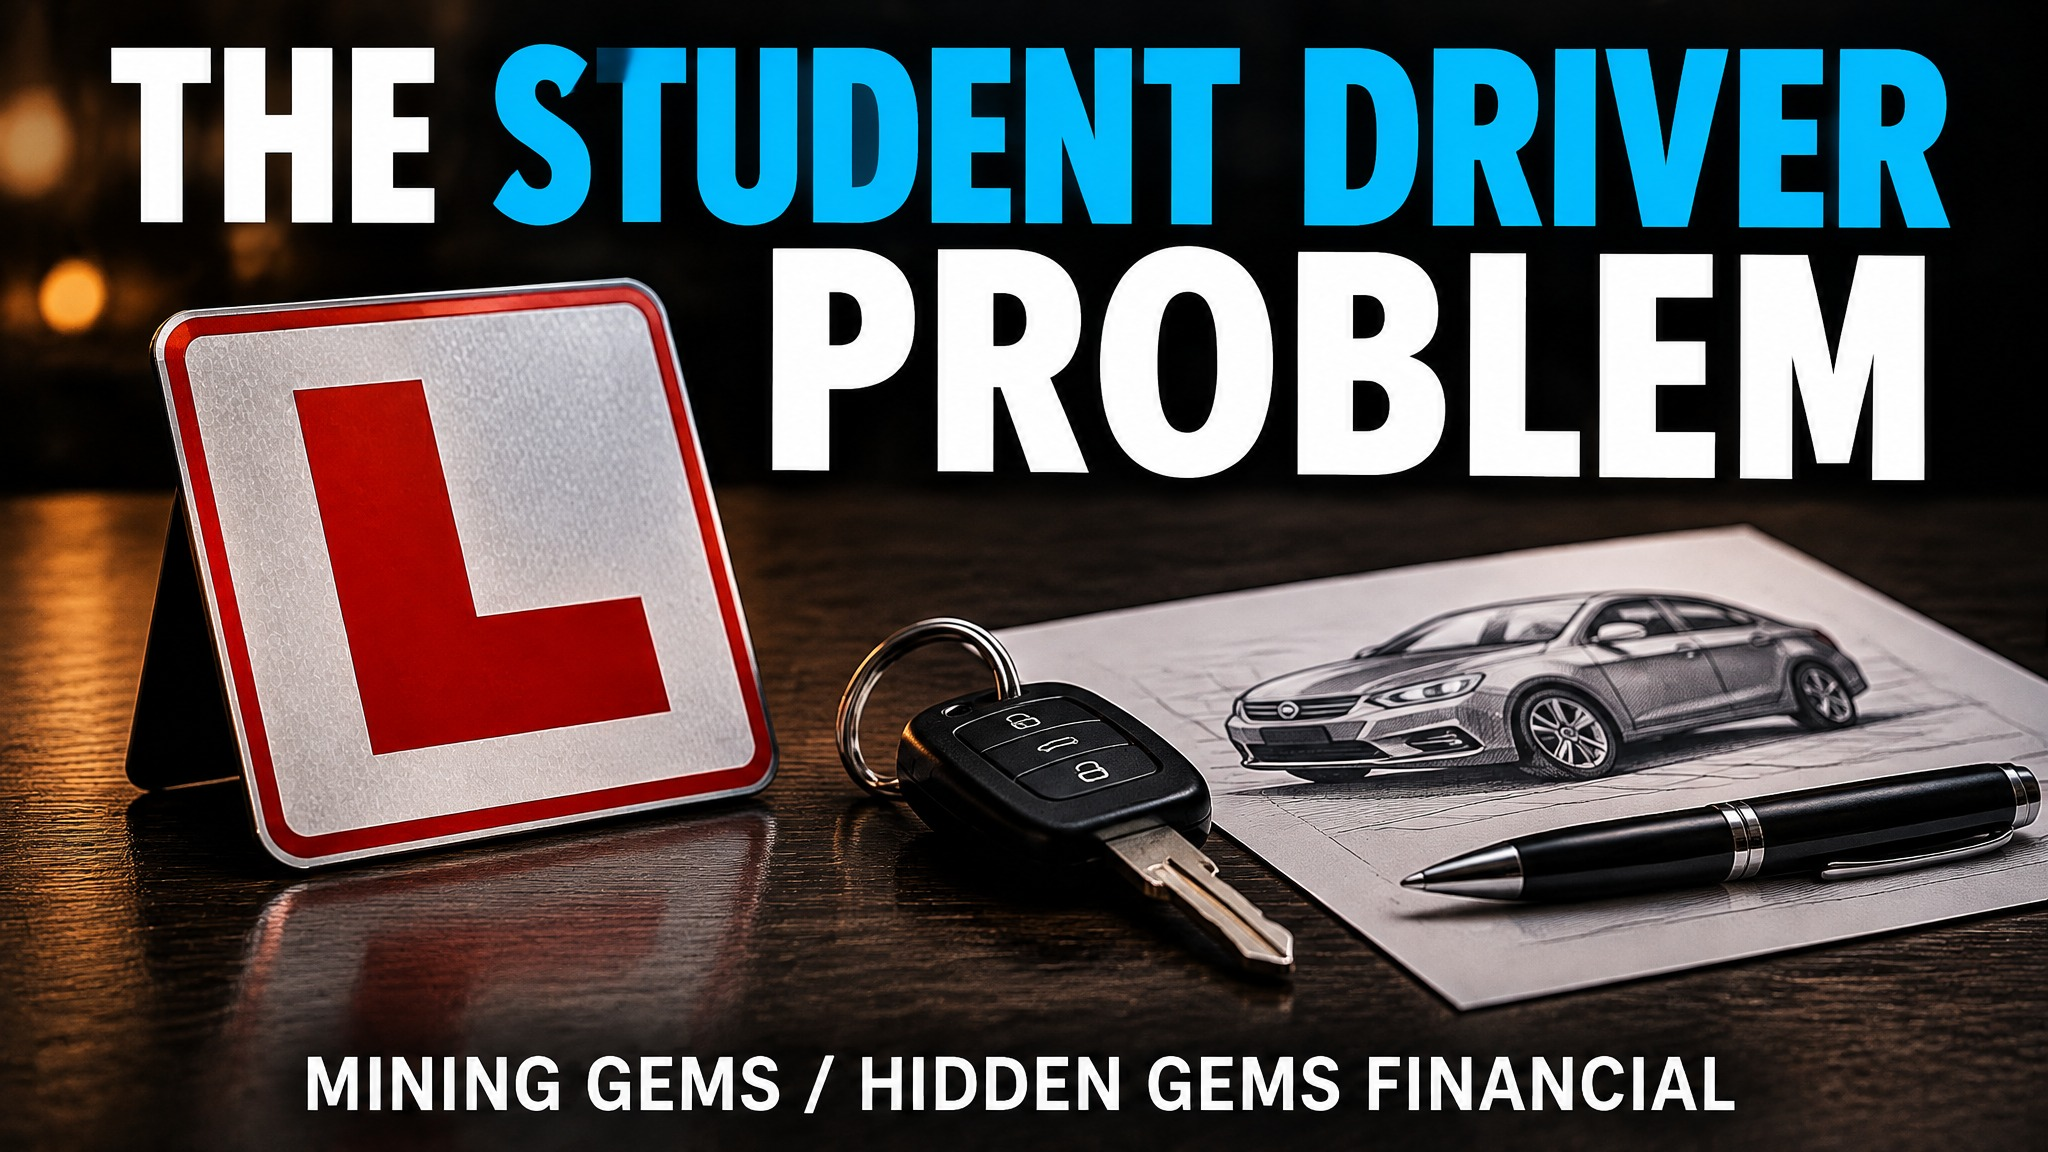
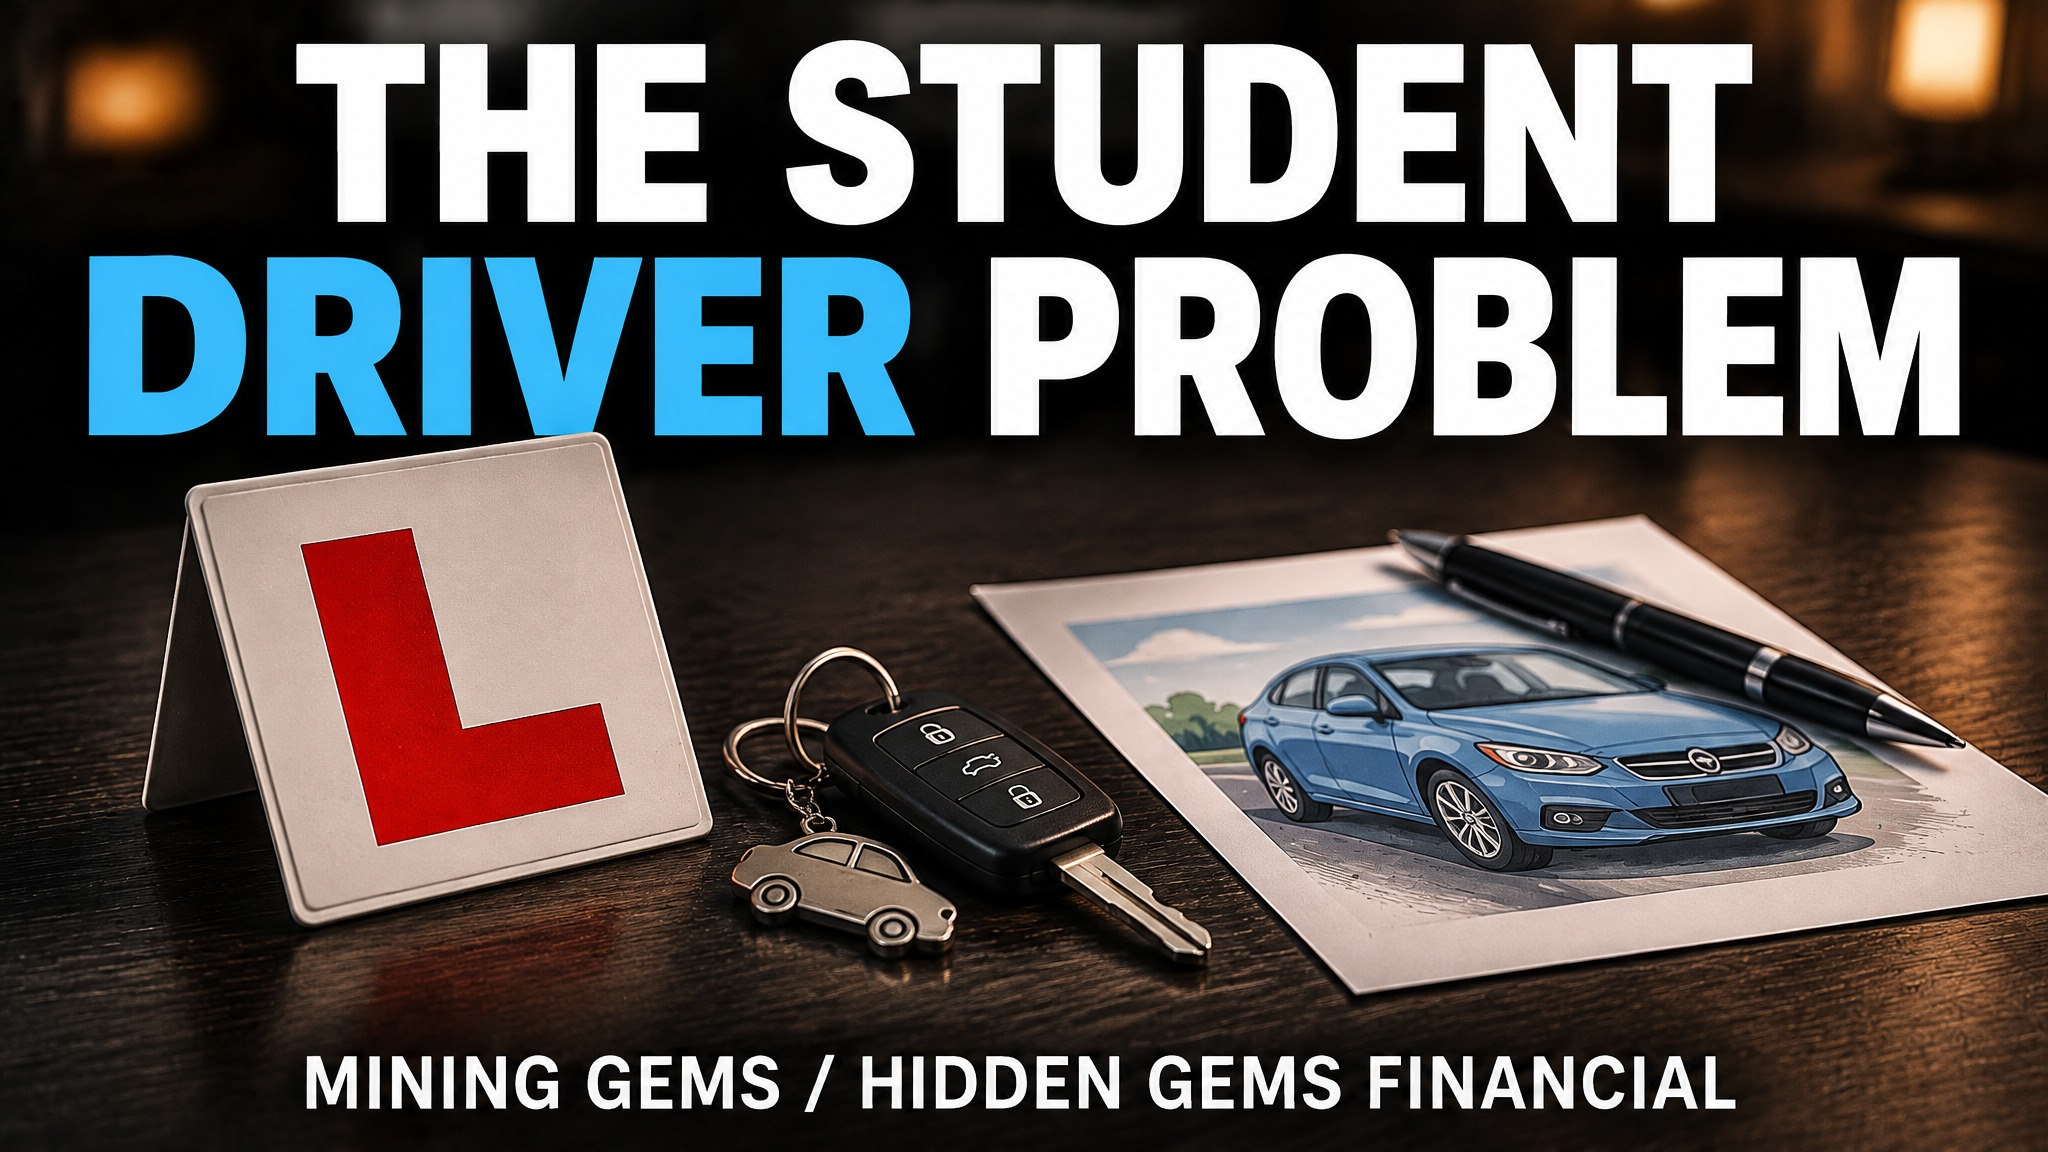
Replace Student Driver image with a clean headline version
Claude-Session: https://claude.ai/code/session_01Efe5xHZUNEtPnhTBht8S5H

diff --git a/blog-student-driver-iul.html b/blog-student-driver-iul.html
@@ -99,7 +99,7 @@
     <div class="container">
       <a href="blog.html" class="article-back">&larr; Back to All Posts</a>
       <div class="article-body">
-        <figure class="article-hero" style="margin:0 0 28px;"><img src="img/blog-student-driver-iul.jpg" alt="Red student driver L sign beside car keys and an illustration of a car" width="1200" height="630" style="width:100%;height:auto;border-radius:10px;display:block;" /></figure>
+        <figure class="article-hero" style="margin:0 0 28px;"><img src="img/blog-student-driver-iul.jpg" alt="Red student driver L sign beside car keys with a car keychain and a painted illustration of a blue car" width="1200" height="630" style="width:100%;height:auto;border-radius:10px;display:block;" /></figure>
         <span class="article-tag">IUL vs Whole Life</span>
         <p>Indexed universal life is not a bad product by definition. It is a complicated one, and complicated products in inexperienced hands cause real damage. Handing someone a policy tied to cap rates, participation rates, and rising cost of insurance without a full explanation is a lot like handing a new driver the keys to a race car. The car is not the problem. The lack of training is.</p>
         <h2>What Most Agents Actually Know</h2>
